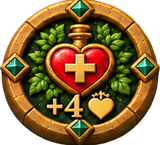
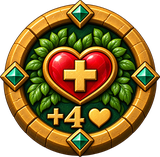
Markers: the Gold Dragon's own Sunburst bonus shows the new +3 Attack marker, the Vitality marker comes from the new +4 picture, the activation bar shows the active unit's markers; rulebook names the +3 marker
Adds the author's source pictures docs/grafika/ikony/znacznik_+3_ataku.png and znacznik_+4_zdrowia.png.

diff --git a/public/assets/manual/index.html b/public/assets/manual/index.html
@@ -82,7 +82,7 @@
 <div class="eyebrow">Rozdział 2 · Kto jest kim</div><h1>Przymierze Świtu</h1>
 <p style="margin-bottom:2mm">Każda frakcja ma <b>trzech bohaterów</b> i <b>trzech pomocników</b>. Każdy gracz prowadzi jednego bohatera. Pomocnicy należą do całej frakcji — przed każdą bitwą bohater zabiera ze sobą dwóch.</p>
 <p class="flavor fine" style="text-align:center;margin-bottom:2.5mm">Zielony sztandar ze złotym drzewem. Ci, którzy pamiętają, jak wyglądała kraina, gdy Drzewo świeciło pełnym blaskiem.</p>
-<div class="units"><div class="unit"><img loading="lazy" src="assets/karty/goldDragon.jpg" alt="Karta: Złoty Smok"><div><h3>Złoty Smok</h3><div class="stats">bohater, latający · <span class="statv"><img loading="lazy" class="stat" src="assets/staty/hp.png" alt="Życie"> 9</span> · <span class="statv"><img loading="lazy" class="stat" src="assets/staty/attack.png" alt="Atak"> 5</span> · <span class="statv"><img loading="lazy" class="stat" src="assets/staty/speed.png" alt="Szybkość"> 4</span></div><p class="flavor">Najstarszy z jasnych smoków. Śpi na szczytach gór i budzi się tylko wtedy, gdy kraina naprawdę go potrzebuje. Mówią, że jego łuski pamiętają kolor pierwszego świtu.</p><div class="ability"><b>Słoneczny Blask</b> — raz na bitwę: każda żyjąca jednostka Przymierza dostaje <span class="statv">+1<img loading="lazy" class="stat" src="assets/staty/attack.png" alt="Atak"></span> do następnego ataku, a sam Smok <span class="statv">+3<img loading="lazy" class="stat" src="assets/staty/attack.png" alt="Atak"></span>.</div></div></div><div class="unit"><img loading="lazy" src="assets/karty/unicornKing.jpg" alt="Karta: Król Jednorożców"><div><h3>Król Jednorożców</h3><div class="stats">bohater, wręcz · <span class="statv"><img loading="lazy" class="stat" src="assets/staty/hp.png" alt="Życie"> 8</span> · <span class="statv"><img loading="lazy" class="stat" src="assets/staty/attack.png" alt="Atak"> 5</span> · <span class="statv"><img loading="lazy" class="stat" src="assets/staty/speed.png" alt="Szybkość"> 8</span></div><p class="flavor">Władca srebrnych stad z łąk pod Drzewem. Nigdy nie atakuje pierwszy, ale gdy już ruszy do szarży, ziemia drży aż po horyzont.</p><div class="ability"><b>Szarża Światła</b> — zawsze, nie raz na bitwę: <span class="statv">+2<img loading="lazy" class="stat" src="assets/staty/attack.png" alt="Atak"></span> do ataku wykonanego po ruchu o co najmniej 4 pola.</div></div></div><div class="unit"><img loading="lazy" src="assets/karty/ancientBear.jpg" alt="Karta: Prastary Niedźwiedź"><div><h3>Prastary Niedźwiedź</h3><div class="stats">bohater, wręcz · <span class="statv"><img loading="lazy" class="stat" src="assets/staty/hp.png" alt="Życie"> 11</span> · <span class="statv"><img loading="lazy" class="stat" src="assets/staty/attack.png" alt="Atak"> 4</span> · <span class="statv"><img loading="lazy" class="stat" src="assets/staty/speed.png" alt="Szybkość"> 4</span></div><p class="flavor">Strażnik puszczy, w którego futrze mieszkają ptaki, a w śladach rosną paprocie. Powolny i cierpliwy jak same drzewa — i równie trudny do przewrócenia.</p><div class="ability"><b>Opiekun Gaju</b> — raz na bitwę, gdy Niedźwiedź albo sąsiedni sojusznik ma otrzymać śmiertelny cios: Niedźwiedź przyjmuje go na siebie i ignoruje 3 obrażenia.</div></div></div><div class="unit"><img loading="lazy" src="assets/karty/elfDruid.jpg" alt="Karta: Elf Druid"><div><h3>Elf Druid</h3><div class="stats">pomocnik, strzelec · <span class="statv"><img loading="lazy" class="stat" src="assets/staty/hp.png" alt="Życie"> 4</span> · <span class="statv"><img loading="lazy" class="stat" src="assets/staty/attack.png" alt="Atak"> 1</span> · <span class="statv"><img loading="lazy" class="stat" src="assets/staty/speed.png" alt="Szybkość"> 4</span></div><p class="flavor">Rozmawia z korzeniami i słucha, co szepcze mech. Jego strzały rzadko ranią mocno, ale potrafią spętać nogi każdego wroga.</p><div class="ability"><b>Splątane Korzenie</b> — raz na bitwę: trafiony wróg ma <span class="statv">−2<img loading="lazy" class="stat" src="assets/staty/speed.png" alt="Szybkość"></span> w swojej następnej aktywacji. <i>(znacznik Spowolnienia)</i></div></div></div><div class="unit"><img loading="lazy" src="assets/karty/nymph.jpg" alt="Karta: Nimfa"><div><h3>Nimfa</h3><div class="stats">pomocnik, wręcz · <span class="statv"><img loading="lazy" class="stat" src="assets/staty/hp.png" alt="Życie"> 5</span> · <span class="statv"><img loading="lazy" class="stat" src="assets/staty/attack.png" alt="Atak"> 2</span> · <span class="statv"><img loading="lazy" class="stat" src="assets/staty/speed.png" alt="Szybkość"> 4</span></div><p class="flavor">Opiekunka źródeł. Tam, gdzie przejdzie, zakwitają kwiaty, a rany goją się szybciej.</p><div class="ability"><b>Dar Życia</b> — raz na bitwę: sojusznik odzyskuje <span class="statv">3<img loading="lazy" class="stat" src="assets/staty/hp.png" alt="Życie"></span> (nie więcej niż ma na karcie).</div></div></div><div class="unit"><img loading="lazy" src="assets/karty/pegasus.jpg" alt="Karta: Pegaz"><div><h3>Pegaz</h3><div class="stats">pomocnik, latający · <span class="statv"><img loading="lazy" class="stat" src="assets/staty/hp.png" alt="Życie"> 4</span> · <span class="statv"><img loading="lazy" class="stat" src="assets/staty/attack.png" alt="Atak"> 2</span> · <span class="statv"><img loading="lazy" class="stat" src="assets/staty/speed.png" alt="Szybkość"> 4</span></div><p class="flavor">Skrzydlaty koń z chmur nad Drzewem. Uderza z góry i znika, zanim wróg zdąży się odwrócić.</p><div class="ability"><b>Powietrzny Zryw</b> — raz na bitwę: po ataku może odlecieć o maks. 3 pola.</div></div></div></div>
+<div class="units"><div class="unit"><img loading="lazy" src="assets/karty/goldDragon.jpg" alt="Karta: Złoty Smok"><div><h3>Złoty Smok</h3><div class="stats">bohater, latający · <span class="statv"><img loading="lazy" class="stat" src="assets/staty/hp.png" alt="Życie"> 9</span> · <span class="statv"><img loading="lazy" class="stat" src="assets/staty/attack.png" alt="Atak"> 5</span> · <span class="statv"><img loading="lazy" class="stat" src="assets/staty/speed.png" alt="Szybkość"> 4</span></div><p class="flavor">Najstarszy z jasnych smoków. Śpi na szczytach gór i budzi się tylko wtedy, gdy kraina naprawdę go potrzebuje. Mówią, że jego łuski pamiętają kolor pierwszego świtu.</p><div class="ability"><b>Słoneczny Blask</b> — raz na bitwę: każda żyjąca jednostka Przymierza dostaje <span class="statv">+1<img loading="lazy" class="stat" src="assets/staty/attack.png" alt="Atak"></span> do następnego ataku, a sam Smok <span class="statv">+3<img loading="lazy" class="stat" src="assets/staty/attack.png" alt="Atak"></span>. <i>(znacznik +3 Ataku)</i></div></div></div><div class="unit"><img loading="lazy" src="assets/karty/unicornKing.jpg" alt="Karta: Król Jednorożców"><div><h3>Król Jednorożców</h3><div class="stats">bohater, wręcz · <span class="statv"><img loading="lazy" class="stat" src="assets/staty/hp.png" alt="Życie"> 8</span> · <span class="statv"><img loading="lazy" class="stat" src="assets/staty/attack.png" alt="Atak"> 5</span> · <span class="statv"><img loading="lazy" class="stat" src="assets/staty/speed.png" alt="Szybkość"> 8</span></div><p class="flavor">Władca srebrnych stad z łąk pod Drzewem. Nigdy nie atakuje pierwszy, ale gdy już ruszy do szarży, ziemia drży aż po horyzont.</p><div class="ability"><b>Szarża Światła</b> — zawsze, nie raz na bitwę: <span class="statv">+2<img loading="lazy" class="stat" src="assets/staty/attack.png" alt="Atak"></span> do ataku wykonanego po ruchu o co najmniej 4 pola.</div></div></div><div class="unit"><img loading="lazy" src="assets/karty/ancientBear.jpg" alt="Karta: Prastary Niedźwiedź"><div><h3>Prastary Niedźwiedź</h3><div class="stats">bohater, wręcz · <span class="statv"><img loading="lazy" class="stat" src="assets/staty/hp.png" alt="Życie"> 11</span> · <span class="statv"><img loading="lazy" class="stat" src="assets/staty/attack.png" alt="Atak"> 4</span> · <span class="statv"><img loading="lazy" class="stat" src="assets/staty/speed.png" alt="Szybkość"> 4</span></div><p class="flavor">Strażnik puszczy, w którego futrze mieszkają ptaki, a w śladach rosną paprocie. Powolny i cierpliwy jak same drzewa — i równie trudny do przewrócenia.</p><div class="ability"><b>Opiekun Gaju</b> — raz na bitwę, gdy Niedźwiedź albo sąsiedni sojusznik ma otrzymać śmiertelny cios: Niedźwiedź przyjmuje go na siebie i ignoruje 3 obrażenia.</div></div></div><div class="unit"><img loading="lazy" src="assets/karty/elfDruid.jpg" alt="Karta: Elf Druid"><div><h3>Elf Druid</h3><div class="stats">pomocnik, strzelec · <span class="statv"><img loading="lazy" class="stat" src="assets/staty/hp.png" alt="Życie"> 4</span> · <span class="statv"><img loading="lazy" class="stat" src="assets/staty/attack.png" alt="Atak"> 1</span> · <span class="statv"><img loading="lazy" class="stat" src="assets/staty/speed.png" alt="Szybkość"> 4</span></div><p class="flavor">Rozmawia z korzeniami i słucha, co szepcze mech. Jego strzały rzadko ranią mocno, ale potrafią spętać nogi każdego wroga.</p><div class="ability"><b>Splątane Korzenie</b> — raz na bitwę: trafiony wróg ma <span class="statv">−2<img loading="lazy" class="stat" src="assets/staty/speed.png" alt="Szybkość"></span> w swojej następnej aktywacji. <i>(znacznik Spowolnienia)</i></div></div></div><div class="unit"><img loading="lazy" src="assets/karty/nymph.jpg" alt="Karta: Nimfa"><div><h3>Nimfa</h3><div class="stats">pomocnik, wręcz · <span class="statv"><img loading="lazy" class="stat" src="assets/staty/hp.png" alt="Życie"> 5</span> · <span class="statv"><img loading="lazy" class="stat" src="assets/staty/attack.png" alt="Atak"> 2</span> · <span class="statv"><img loading="lazy" class="stat" src="assets/staty/speed.png" alt="Szybkość"> 4</span></div><p class="flavor">Opiekunka źródeł. Tam, gdzie przejdzie, zakwitają kwiaty, a rany goją się szybciej.</p><div class="ability"><b>Dar Życia</b> — raz na bitwę: sojusznik odzyskuje <span class="statv">3<img loading="lazy" class="stat" src="assets/staty/hp.png" alt="Życie"></span> (nie więcej niż ma na karcie).</div></div></div><div class="unit"><img loading="lazy" src="assets/karty/pegasus.jpg" alt="Karta: Pegaz"><div><h3>Pegaz</h3><div class="stats">pomocnik, latający · <span class="statv"><img loading="lazy" class="stat" src="assets/staty/hp.png" alt="Życie"> 4</span> · <span class="statv"><img loading="lazy" class="stat" src="assets/staty/attack.png" alt="Atak"> 2</span> · <span class="statv"><img loading="lazy" class="stat" src="assets/staty/speed.png" alt="Szybkość"> 4</span></div><p class="flavor">Skrzydlaty koń z chmur nad Drzewem. Uderza z góry i znika, zanim wróg zdąży się odwrócić.</p><div class="ability"><b>Powietrzny Zryw</b> — raz na bitwę: po ataku może odlecieć o maks. 3 pola.</div></div></div></div>
 </div><footer class="footer"><span>Strażnicy Kryształowego Drzewa</span><span>Przymierze Świtu</span><span class="folio">9</span></footer></section>
 
 <!-- STRONA 10: Mroczna Horda -->

diff --git a/docs/edytowalny_szablon_instrukcji/index.html b/docs/edytowalny_szablon_instrukcji/index.html
@@ -82,7 +82,7 @@
 <div class="eyebrow">Rozdział 2 · Kto jest kim</div><h1>Przymierze Świtu</h1>
 <p style="margin-bottom:2mm">Każda frakcja ma <b>trzech bohaterów</b> i <b>trzech pomocników</b>. Każdy gracz prowadzi jednego bohatera. Pomocnicy należą do całej frakcji — przed każdą bitwą bohater zabiera ze sobą dwóch.</p>
 <p class="flavor fine" style="text-align:center;margin-bottom:2.5mm">Zielony sztandar ze złotym drzewem. Ci, którzy pamiętają, jak wyglądała kraina, gdy Drzewo świeciło pełnym blaskiem.</p>
-<div class="units"><div class="unit"><img src="assets/karty/goldDragon.jpg" alt="Karta: Złoty Smok"><div><h3>Złoty Smok</h3><div class="stats">bohater, latający · <span class="statv"><img class="stat" src="assets/staty/hp.png" alt="Życie"> 9</span> · <span class="statv"><img class="stat" src="assets/staty/attack.png" alt="Atak"> 5</span> · <span class="statv"><img class="stat" src="assets/staty/speed.png" alt="Szybkość"> 4</span></div><p class="flavor">Najstarszy z jasnych smoków. Śpi na szczytach gór i budzi się tylko wtedy, gdy kraina naprawdę go potrzebuje. Mówią, że jego łuski pamiętają kolor pierwszego świtu.</p><div class="ability"><b>Słoneczny Blask</b> — raz na bitwę: każda żyjąca jednostka Przymierza dostaje <span class="statv">+1<img class="stat" src="assets/staty/attack.png" alt="Atak"></span> do następnego ataku, a sam Smok <span class="statv">+3<img class="stat" src="assets/staty/attack.png" alt="Atak"></span>.</div></div></div><div class="unit"><img src="assets/karty/unicornKing.jpg" alt="Karta: Król Jednorożców"><div><h3>Król Jednorożców</h3><div class="stats">bohater, wręcz · <span class="statv"><img class="stat" src="assets/staty/hp.png" alt="Życie"> 8</span> · <span class="statv"><img class="stat" src="assets/staty/attack.png" alt="Atak"> 5</span> · <span class="statv"><img class="stat" src="assets/staty/speed.png" alt="Szybkość"> 8</span></div><p class="flavor">Władca srebrnych stad z łąk pod Drzewem. Nigdy nie atakuje pierwszy, ale gdy już ruszy do szarży, ziemia drży aż po horyzont.</p><div class="ability"><b>Szarża Światła</b> — zawsze, nie raz na bitwę: <span class="statv">+2<img class="stat" src="assets/staty/attack.png" alt="Atak"></span> do ataku wykonanego po ruchu o co najmniej 4 pola.</div></div></div><div class="unit"><img src="assets/karty/ancientBear.jpg" alt="Karta: Prastary Niedźwiedź"><div><h3>Prastary Niedźwiedź</h3><div class="stats">bohater, wręcz · <span class="statv"><img class="stat" src="assets/staty/hp.png" alt="Życie"> 11</span> · <span class="statv"><img class="stat" src="assets/staty/attack.png" alt="Atak"> 4</span> · <span class="statv"><img class="stat" src="assets/staty/speed.png" alt="Szybkość"> 4</span></div><p class="flavor">Strażnik puszczy, w którego futrze mieszkają ptaki, a w śladach rosną paprocie. Powolny i cierpliwy jak same drzewa — i równie trudny do przewrócenia.</p><div class="ability"><b>Opiekun Gaju</b> — raz na bitwę, gdy Niedźwiedź albo sąsiedni sojusznik ma otrzymać śmiertelny cios: Niedźwiedź przyjmuje go na siebie i ignoruje 3 obrażenia.</div></div></div><div class="unit"><img src="assets/karty/elfDruid.jpg" alt="Karta: Elf Druid"><div><h3>Elf Druid</h3><div class="stats">pomocnik, strzelec · <span class="statv"><img class="stat" src="assets/staty/hp.png" alt="Życie"> 4</span> · <span class="statv"><img class="stat" src="assets/staty/attack.png" alt="Atak"> 1</span> · <span class="statv"><img class="stat" src="assets/staty/speed.png" alt="Szybkość"> 4</span></div><p class="flavor">Rozmawia z korzeniami i słucha, co szepcze mech. Jego strzały rzadko ranią mocno, ale potrafią spętać nogi każdego wroga.</p><div class="ability"><b>Splątane Korzenie</b> — raz na bitwę: trafiony wróg ma <span class="statv">−2<img class="stat" src="assets/staty/speed.png" alt="Szybkość"></span> w swojej następnej aktywacji. <i>(znacznik Spowolnienia)</i></div></div></div><div class="unit"><img src="assets/karty/nymph.jpg" alt="Karta: Nimfa"><div><h3>Nimfa</h3><div class="stats">pomocnik, wręcz · <span class="statv"><img class="stat" src="assets/staty/hp.png" alt="Życie"> 5</span> · <span class="statv"><img class="stat" src="assets/staty/attack.png" alt="Atak"> 2</span> · <span class="statv"><img class="stat" src="assets/staty/speed.png" alt="Szybkość"> 4</span></div><p class="flavor">Opiekunka źródeł. Tam, gdzie przejdzie, zakwitają kwiaty, a rany goją się szybciej.</p><div class="ability"><b>Dar Życia</b> — raz na bitwę: sojusznik odzyskuje <span class="statv">3<img class="stat" src="assets/staty/hp.png" alt="Życie"></span> (nie więcej niż ma na karcie).</div></div></div><div class="unit"><img src="assets/karty/pegasus.jpg" alt="Karta: Pegaz"><div><h3>Pegaz</h3><div class="stats">pomocnik, latający · <span class="statv"><img class="stat" src="assets/staty/hp.png" alt="Życie"> 4</span> · <span class="statv"><img class="stat" src="assets/staty/attack.png" alt="Atak"> 2</span> · <span class="statv"><img class="stat" src="assets/staty/speed.png" alt="Szybkość"> 4</span></div><p class="flavor">Skrzydlaty koń z chmur nad Drzewem. Uderza z góry i znika, zanim wróg zdąży się odwrócić.</p><div class="ability"><b>Powietrzny Zryw</b> — raz na bitwę: po ataku może odlecieć o maks. 3 pola.</div></div></div></div>
+<div class="units"><div class="unit"><img src="assets/karty/goldDragon.jpg" alt="Karta: Złoty Smok"><div><h3>Złoty Smok</h3><div class="stats">bohater, latający · <span class="statv"><img class="stat" src="assets/staty/hp.png" alt="Życie"> 9</span> · <span class="statv"><img class="stat" src="assets/staty/attack.png" alt="Atak"> 5</span> · <span class="statv"><img class="stat" src="assets/staty/speed.png" alt="Szybkość"> 4</span></div><p class="flavor">Najstarszy z jasnych smoków. Śpi na szczytach gór i budzi się tylko wtedy, gdy kraina naprawdę go potrzebuje. Mówią, że jego łuski pamiętają kolor pierwszego świtu.</p><div class="ability"><b>Słoneczny Blask</b> — raz na bitwę: każda żyjąca jednostka Przymierza dostaje <span class="statv">+1<img class="stat" src="assets/staty/attack.png" alt="Atak"></span> do następnego ataku, a sam Smok <span class="statv">+3<img class="stat" src="assets/staty/attack.png" alt="Atak"></span>. <i>(znacznik +3 Ataku)</i></div></div></div><div class="unit"><img src="assets/karty/unicornKing.jpg" alt="Karta: Król Jednorożców"><div><h3>Król Jednorożców</h3><div class="stats">bohater, wręcz · <span class="statv"><img class="stat" src="assets/staty/hp.png" alt="Życie"> 8</span> · <span class="statv"><img class="stat" src="assets/staty/attack.png" alt="Atak"> 5</span> · <span class="statv"><img class="stat" src="assets/staty/speed.png" alt="Szybkość"> 8</span></div><p class="flavor">Władca srebrnych stad z łąk pod Drzewem. Nigdy nie atakuje pierwszy, ale gdy już ruszy do szarży, ziemia drży aż po horyzont.</p><div class="ability"><b>Szarża Światła</b> — zawsze, nie raz na bitwę: <span class="statv">+2<img class="stat" src="assets/staty/attack.png" alt="Atak"></span> do ataku wykonanego po ruchu o co najmniej 4 pola.</div></div></div><div class="unit"><img src="assets/karty/ancientBear.jpg" alt="Karta: Prastary Niedźwiedź"><div><h3>Prastary Niedźwiedź</h3><div class="stats">bohater, wręcz · <span class="statv"><img class="stat" src="assets/staty/hp.png" alt="Życie"> 11</span> · <span class="statv"><img class="stat" src="assets/staty/attack.png" alt="Atak"> 4</span> · <span class="statv"><img class="stat" src="assets/staty/speed.png" alt="Szybkość"> 4</span></div><p class="flavor">Strażnik puszczy, w którego futrze mieszkają ptaki, a w śladach rosną paprocie. Powolny i cierpliwy jak same drzewa — i równie trudny do przewrócenia.</p><div class="ability"><b>Opiekun Gaju</b> — raz na bitwę, gdy Niedźwiedź albo sąsiedni sojusznik ma otrzymać śmiertelny cios: Niedźwiedź przyjmuje go na siebie i ignoruje 3 obrażenia.</div></div></div><div class="unit"><img src="assets/karty/elfDruid.jpg" alt="Karta: Elf Druid"><div><h3>Elf Druid</h3><div class="stats">pomocnik, strzelec · <span class="statv"><img class="stat" src="assets/staty/hp.png" alt="Życie"> 4</span> · <span class="statv"><img class="stat" src="assets/staty/attack.png" alt="Atak"> 1</span> · <span class="statv"><img class="stat" src="assets/staty/speed.png" alt="Szybkość"> 4</span></div><p class="flavor">Rozmawia z korzeniami i słucha, co szepcze mech. Jego strzały rzadko ranią mocno, ale potrafią spętać nogi każdego wroga.</p><div class="ability"><b>Splątane Korzenie</b> — raz na bitwę: trafiony wróg ma <span class="statv">−2<img class="stat" src="assets/staty/speed.png" alt="Szybkość"></span> w swojej następnej aktywacji. <i>(znacznik Spowolnienia)</i></div></div></div><div class="unit"><img src="assets/karty/nymph.jpg" alt="Karta: Nimfa"><div><h3>Nimfa</h3><div class="stats">pomocnik, wręcz · <span class="statv"><img class="stat" src="assets/staty/hp.png" alt="Życie"> 5</span> · <span class="statv"><img class="stat" src="assets/staty/attack.png" alt="Atak"> 2</span> · <span class="statv"><img class="stat" src="assets/staty/speed.png" alt="Szybkość"> 4</span></div><p class="flavor">Opiekunka źródeł. Tam, gdzie przejdzie, zakwitają kwiaty, a rany goją się szybciej.</p><div class="ability"><b>Dar Życia</b> — raz na bitwę: sojusznik odzyskuje <span class="statv">3<img class="stat" src="assets/staty/hp.png" alt="Życie"></span> (nie więcej niż ma na karcie).</div></div></div><div class="unit"><img src="assets/karty/pegasus.jpg" alt="Karta: Pegaz"><div><h3>Pegaz</h3><div class="stats">pomocnik, latający · <span class="statv"><img class="stat" src="assets/staty/hp.png" alt="Życie"> 4</span> · <span class="statv"><img class="stat" src="assets/staty/attack.png" alt="Atak"> 2</span> · <span class="statv"><img class="stat" src="assets/staty/speed.png" alt="Szybkość"> 4</span></div><p class="flavor">Skrzydlaty koń z chmur nad Drzewem. Uderza z góry i znika, zanim wróg zdąży się odwrócić.</p><div class="ability"><b>Powietrzny Zryw</b> — raz na bitwę: po ataku może odlecieć o maks. 3 pola.</div></div></div></div>
 </div><footer class="footer"><span>Strażnicy Kryształowego Drzewa</span><span>Przymierze Świtu</span><span class="folio">9</span></footer></section>
 
 <!-- STRONA 10: Mroczna Horda -->

diff --git a/src/ui/battleStatus.tsx b/src/ui/battleStatus.tsx
@@ -2,7 +2,7 @@
 // and the right-button card.
 
 import type { BattleUnit } from '../engine/types';
-import { UNITS } from '../engine/data';
+import { ABILITY, UNITS } from '../engine/data';
 import { unitSpeed } from '../engine/battle';
 import { asset, HpBar } from './common';
 import { Marker, StatIcon, StatText, type MarkerName } from './markers';
@@ -26,7 +26,10 @@ export function statusList(u: BattleUnit): StatusInfo[] {
   if (s.rootedNext) out.push({ label: 'Unieruchomiony w następnej aktywacji (Pajęcze Sidła)', glyph: 'sWeb', marker: 'rooted', buff: false });
   if (s.slowNext) out.push({ label: `−${s.slowNext} S w następnej aktywacji (Splątane Korzenie)`, glyph: 'sRoot', marker: 'slowed', buff: false, value: s.slowNext !== 2 ? `−${s.slowNext}` : undefined });
   if (s.cursedNext) out.push({ label: `−${s.cursedNext} A przy następnym ataku (Złowroga Klątwa)`, glyph: 'sSkull', marker: 'cursed', buff: false, value: s.cursedNext !== 1 ? `−${s.cursedNext}` : undefined });
-  if (s.nextAttackBonus) out.push({ label: `+${s.nextAttackBonus} A przy następnym ataku`, glyph: 'sBlade', marker: 'attack_up', buff: true, value: s.nextAttackBonus !== 1 ? `+${s.nextAttackBonus}` : undefined });
+  // The Gold Dragon's own Słoneczny Blask bonus has its own "+3" marker; everyone else's next-attack bonus is Wzmocnienie Ataku.
+  const sunburst = UNITS[u.defId].ability === 'sunburst' && s.nextAttackBonus >= ABILITY.sunburstSelfBonus;
+  if (sunburst) out.push({ label: `+${s.nextAttackBonus} A przy następnym ataku (Słoneczny Blask)`, glyph: 'sBlade', marker: 'attack_3', buff: true, value: s.nextAttackBonus !== ABILITY.sunburstSelfBonus ? `+${s.nextAttackBonus}` : undefined });
+  else if (s.nextAttackBonus) out.push({ label: `+${s.nextAttackBonus} A przy następnym ataku`, glyph: 'sBlade', marker: 'attack_up', buff: true, value: s.nextAttackBonus !== 1 ? `+${s.nextAttackBonus}` : undefined });
   if (s.shieldArmed) out.push({ label: 'Tarcza Strażnika: neguje następny atak', glyph: 'sGuard', marker: 'shield', buff: true });
   if (u.maxHp > UNITS[u.defId].hp) out.push({ label: `+${u.maxHp - UNITS[u.defId].hp} maks. Ż do końca bitwy (Eliksir Żywotności)`, glyph: 'sGuard', marker: 'vitality', buff: true, value: u.maxHp - UNITS[u.defId].hp !== 4 ? `+${u.maxHp - UNITS[u.defId].hp}` : undefined });
   if (s.battleAttackBonus) out.push({ label: `+${s.battleAttackBonus} A do końca bitwy`, glyph: 'sBlade', buff: true, value: `+${s.battleAttackBonus}` });

diff --git a/src/ui/ActivationBar.tsx b/src/ui/ActivationBar.tsx
@@ -4,6 +4,7 @@ import { FACTION_NAMES, UNITS, type FactionId } from '../engine/data';
 import { abilityOf, livingUnits, unitSpeed } from '../engine/battle';
 import type { Action, BattleState, BattleUnit, GameState } from '../engine/types';
 import { asset, Frame, Medal, Portrait, SIDE_RING } from './common';
+import { statusList, StatusBadge } from './battleStatus';
 
 /** The line under the active unit's name: what the player can do now. */
 export function activationHint(b: BattleState, o: { deploySide: FactionId | null; picked: string | null; myTurn: boolean; moves: number; targets: number }): string {
@@ -52,7 +53,15 @@ export function ActivationBar({ state, active, hint, myTurn, deploySide, placing
   return (
     <Frame className="bar sticky-mobile" style={{ height: 112 }} innerStyle={{ display: 'flex', alignItems: 'center', gap: 16, padding: '0 18px' }}>
       <div style={{ display: 'flex', gap: 8, alignItems: 'center' }}>
-        {active && <span className="hide-mobile"><Portrait unitId={active.defId} size={56} ring={SIDE_RING[active.side]} glow="0 0 0 2.5px #9EE4FF" /></span>}
+        {active && (
+          <span className="hide-mobile" style={{ position: 'relative' }}>
+            <Portrait unitId={active.defId} size={56} ring={SIDE_RING[active.side]} glow="0 0 0 2.5px #9EE4FF" />
+            {/* The active unit's markers (e.g. the Gold Dragon's +3 after Słoneczny Blask) on the portrait's lower edge. */}
+            <span style={{ position: 'absolute', left: '50%', bottom: -8, transform: 'translateX(-50%)', display: 'flex', gap: 1 }}>
+              {statusList(active).map((st) => <StatusBadge key={st.label} st={{ ...st, value: undefined }} size={20} />)}
+            </span>
+          </span>
+        )}
         <div className="act-info" style={{ width: 170 }}>
           <div style={{ fontWeight: 800, fontSize: 18, color: '#F3D27A', lineHeight: 1.1 }}>
             {b.stage === 'deploy' ? 'Ustawienie wojsk' : active ? UNITS[active.defId].name : '—'}

diff --git a/src/ui/markers.tsx b/src/ui/markers.tsx
@@ -1,11 +1,11 @@
-// Markers of the board game (docs/grafika/ikony/znaczniki.png, cut by scripts/assets/markers.py):
+// Markers of the board game (docs/grafika/ikony/znaczniki.png and single znacznik_*.png, by scripts/assets/markers.py):
 // the same tokens the players put on the table, shown on the screen.
 
 import { UNITS } from '../engine/data';
 import type { AttackRoll, BattleState } from '../engine/types';
 import { asset } from './common';
 
-export type MarkerName = 'ability_used' | 'rooted' | 'slowed' | 'cursed' | 'attack_up' | 'speed_up' | 'shield' | 'vitality' | 'damage_empty';
+export type MarkerName = 'ability_used' | 'rooted' | 'slowed' | 'cursed' | 'attack_up' | 'attack_3' | 'speed_up' | 'shield' | 'vitality' | 'damage_empty';
 
 export function Marker({ name, size = 22, title }: { name: MarkerName; size?: number; title?: string }) {
   return <img src={asset(`markers/${name}.png`)} alt={title ?? ''} title={title} style={{ width: size, height: size, objectFit: 'contain', flex: 'none', verticalAlign: 'middle', filter: 'drop-shadow(0 2px 2px rgba(0,0,0,0.55))' }} />;

diff --git a/scripts/assets/markers.py b/scripts/assets/markers.py
@@ -7,7 +7,7 @@ channel and named by their place (rows of 4, 3, 3, 3):
 The game gets the status markers in public/assets/markers/ (the damage drop there is the empty one,
 znacznik_obrazen_pusty.png, as the game writes the number itself); the rulebook gets all of them in
 docs/edytowalny_szablon_instrukcji/assets/znaczniki/.
-Newer markers are separate files (SEPARATE), scaled to the same size.
+Newer markers are separate files (SEPARATE), scaled to the same size; one of the same name replaces the sheet's.
 Usage: python3 scripts/assets/markers.py
 """
 import os
@@ -25,9 +25,9 @@ ROWS = [
     ['cursed', 'attack_up', 'speed_up'],
     ['shield', 'vitality', 'crystal'],
 ]
-STATUS = ['ability_used', 'rooted', 'slowed', 'cursed', 'attack_up', 'speed_up', 'shield', 'vitality']
+STATUS = ['ability_used', 'rooted', 'slowed', 'cursed', 'attack_up', 'attack_3', 'speed_up', 'shield', 'vitality']
 # name -> file in docs/grafika/ikony/
-SEPARATE = {'attack_3': 'znacznik_+3_ataku.png'}
+SEPARATE = {'attack_3': 'znacznik_+3_ataku.png', 'vitality': 'znacznik_+4_zdrowia.png'}
 GRID = 4  # pixels per cell when looking for pieces
 
 
@@ -103,6 +103,7 @@ if __name__ == '__main__':
     for name, file in SEPARATE.items():
         im = fit(Image.open(os.path.join(os.path.dirname(SRC), file)).convert('RGBA'))
         im.save(os.path.join(MANUAL, f'{name}.png'), optimize=True)
+        im.save(os.path.join(OUT, f'{name}.png'), optimize=True)
     drop = fit(Image.open(EMPTY_DROP).convert('RGBA'))
     drop.save(os.path.join(OUT, 'damage_empty.png'), optimize=True)
     print('ok ->', OUT, '+', MANUAL)

diff --git a/docs/NOTATKI_DLA_AGENTA_PLANSZOWKI.md b/docs/NOTATKI_DLA_AGENTA_PLANSZOWKI.md
@@ -429,7 +429,7 @@ Długość partii z limitem podniesionym do 100 (400 gier na wariant, poziomy No
 - **Wskrzeszenie na mapie:** wskrzeszony staje na wybranym wolnym polu obok pijącego (`reviveSpots`, `useMapItem.targets[0]`).
 - **Automat (kooperacja) i strażnicy w bitwie** grają według instrukcji (`battleAi.ts`, `rulebookAction`): zdolności od razu; bohater/strażnik bije bohatera, inaczej pomocnika z najmniejszym Życiem; pomocnik automatu bije najpierw pomocników; bez celu — do najbliższego wroga. W rywalizacji strażnikiem przy stole kieruje gracz Hordy; w grze jednoosobowej — ten sam gracz.
 - **Wynik (300 gier):** kooperacja łatwiejsza (Normalny 67–77%, Trudny 49–73%), PvP Normalny 41–61%. Zero zawieszonych partii i niedozwolonych ruchów.
-- **Zawartość pudełka** (max potrzeb — bardzo długa mapa, bitwa 3 na 3): 50 + 49 kafelków terenu, 16 kafelków skarbów (8 + 8), 3 siedliska, Drzewo, 2 bazy, 2 areny, 15 kart i 15 figurek, 18 kart skarbów (4 Eliksiry + 14), 3 kryształy, tor rund + znacznik, kość; znaczniki: krople 5 × 10, 3 / 2 / 1 × 6, zużyta zdolność 6, Wzmocnienie Ataku 6, Żywotność 4, Ochrona 2, pozostałe po 1.
+- **Zawartość pudełka** (max potrzeb — bardzo długa mapa, bitwa 3 na 3): 50 + 49 kafelków terenu, 16 kafelków skarbów (8 + 8), 3 siedliska, Drzewo, 2 bazy, 2 areny, 15 kart i 15 figurek, 18 kart skarbów (4 Eliksiry + 14), 3 kryształy, tor rund + znacznik, kość; znaczniki: krople 5 × 10, 3 / 2 / 1 × 6, zużyta zdolność 6, Wzmocnienie Ataku 6, +3 Ataku 1 (Złoty Smok po Słonecznym Blasku), Żywotność 4, Ochrona 2, pozostałe po 1.
 
 ### 7.13. Wygrana tylko kryształami, 3 punkty ruchu, nowe boty (2026-10-21, decyzje użytkownika)
 

diff --git a/docs/BACKLOG.md b/docs/BACKLOG.md
@@ -20,13 +20,6 @@ punkt to osobny commit; najtańsza kolejność: 1.5 → 1.4 → 1.3 → 1.2 → 
     figurkę albo zestaw na frakcję. Wstawić do instrukcji: `docs/INSTRUKCJA.md` i szablon
     `docs/edytowalny_szablon_instrukcji/assets/figurki/`. Da się to zrobić — gra już rysuje modele three.js,
     trzeba tylko skryptu, który ustawi kamerę i zapisze kadr.
-- [ ] **1.2. Znaczniki „+3 Ataku” i „+4 Zdrowia”.** *Koszt: ok. 60–90 tys. tokenów.*
-  - `docs/grafika/ikony/znacznik_+4_zdrowia.png` zastępuje dotychczasową ikonę Żywotności (+4 Ż).
-  - `docs/grafika/ikony/znacznik_+3_ataku.png` — nowy znacznik przy Złotym Smoku po użyciu Słonecznego Blasku
-    (`sunburstSelfBonus: 3`), widoczny w bitwie (karta, pasek aktywacji, arena), znika po jego ataku.
-  - Dziś znaczniki są wycinane z arkusza `znaczniki.png` (`scripts/assets/markers.py`, `src/ui/markers.tsx`) —
-    nowe są osobnymi plikami, trzeba je dopasować rozmiarem. Instrukcja: opis zdolności Smoka, lista znaczników,
-    szablon (`assets/znaczniki/`).
 
 ## 2. Figurki 3D — drobne
 

diff --git a/CHANGELOG.md b/CHANGELOG.md
@@ -6,6 +6,7 @@ Każdy wpis to jeden commit, a skrót commita stoi w nawiasie na końcu wpisu (c
 
 ## W przygotowaniu
 
+- Bitwa: Złoty Smok po Słonecznym Blasku ma własny znacznik „+3 Ataku” (znika po jego ataku), Eliksir Żywotności ma nowy znacznik „+4”, a pasek aktywacji pokazuje znaczniki aktywnej jednostki. Oba znaczniki są też w instrukcji.
 - Instrukcja, rozdział 1: lista elementów z pudełka ma rozmiary (kafelki, plansza, karty, figurki, kryształy, tor rund) i nowy znacznik „+3 Ataku” Złotego Smoka.
 - Wersja do druku: wymiary znaczników (Ø 23 mm), kropli obrażeń, toru rund, znacznika rundy i kryształów są już ostateczne — wszystkie te elementy będą drukowane w 3D.
 - **Zmiana zasad:** bitwa nie kończy już ruchu. Wejście na pole wrogiego bohatera albo strażnika kosztuje tyle punktów ruchu, ile koszt terenu tego pola (jak każdy krok), a po wygranej bohater może iść dalej. Zasada jest też w instrukcji i w „Zasadach i kartach”.
